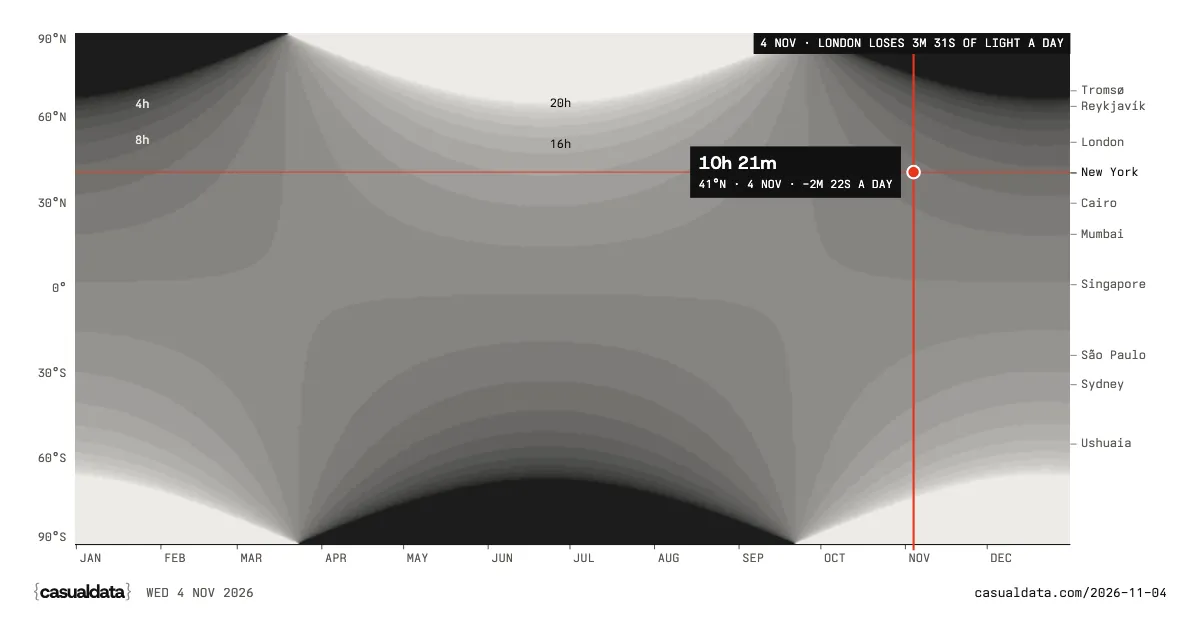
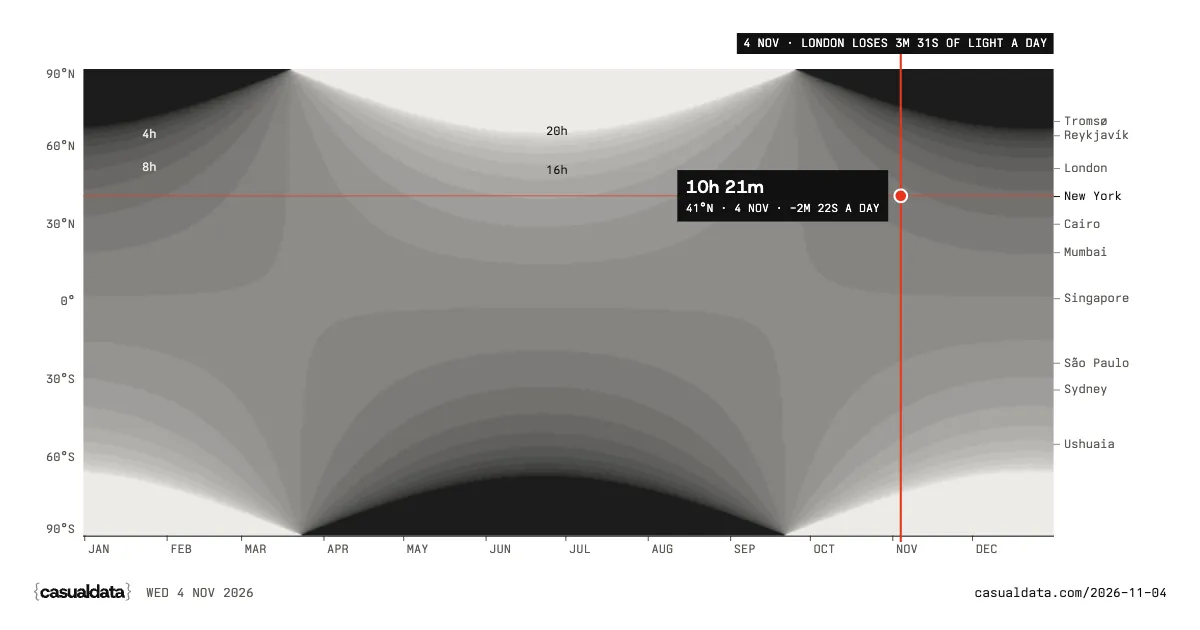
Give the day pages room: a wider margin, air between head, chart and source
Space is grouped, not spread: tight inside the head (title and dek),
generous between head, chart and source line, and a wider page margin
(up to 72px). The generous intervals follow the screen height, so short
screens give up air before chart; phones keep a compact head. Inside the
charts, direction labels and scales get their own bands, row headings
sit clear of their rules, 4 Nov's note sits above the plot instead of on
it, 6 Nov's labels get a taller band, and 8 Nov's key and strip more
room. 7 Nov's state codes also keep clear of the row summaries. Cards
and thumbnails re-rendered with the new spacing.

Changed region(s): [[0.0308, 0.0302, 0.9558, 0.9048], [0.2775, 0.0302, 0.6167, 0.0603], [0.3083, 0.7841, 0.3392, 0.8143]]

diff --git a/kit/cd.css b/kit/cd.css
@@ -43,7 +43,7 @@
 	--red: #E8341C;     /* the one thing, tuned per ground: 4.3:1 on white. marks and large labels only */
 	--sans: "Host Grotesk", Arial, sans-serif;
 	--mono: "Ioskeley Mono", ui-monospace, "SF Mono", Menlo, monospace;
-	--gut: clamp(16px, 2.4vw, 36px);
+	--gut: clamp(20px, 4.4vw, 72px);   /* the page margin: generous, so titles and charts never run to the edge */
 	color-scheme: light;
 }
 :root[data-theme="dark"] {
@@ -111,31 +111,36 @@ body.cd-day {
 
 /* The head is two things: the title, and one or two sentences that say how to
    read the chart. The reading itself lives in the chart (CD.label). */
+/* Spacing rhythm on a day page: tight inside a group (title and dek), generous between groups (bar to
+   head, head to chart, chart to source). The generous intervals follow the screen height, so a short
+   screen gives up air before it gives up chart. */
 .cd-head {
-	display: grid; grid-template-columns: minmax(0, 1.6fr) minmax(0, 1fr); gap: 10px 48px; align-items: end;
-	padding: clamp(16px, 3vh, 36px) var(--gut) clamp(14px, 2.4vh, 26px);
+	display: grid; grid-template-columns: minmax(0, 1.6fr) minmax(0, 1fr); gap: 12px clamp(32px, 6vw, 112px); align-items: end;
+	padding: clamp(22px, 5.5vh, 64px) var(--gut) clamp(26px, 6vh, 64px);
 }
 .cd-title {
 	/* light on purpose: 800 belongs to the wordmark alone */
 	margin: 0; font-weight: 400; letter-spacing: -.025em; line-height: 1;
-	font-size: clamp(28px, min(4.4vw, 6.6vh), 72px);
+	font-size: clamp(28px, min(4vw, 6.2vh), 64px); line-height: 1.02;
 	max-width: 18ch; text-wrap: balance;
 }
-.cd-dek { margin: 0; max-width: 44ch; justify-self: end; color: var(--ink-2); font-size: clamp(14px, 1.2vw, 16px); line-height: 1.45; text-wrap: pretty; }
+.cd-dek { margin: 0; max-width: 42ch; justify-self: end; color: var(--ink-2); font-size: clamp(14px, 1.15vw, 16.5px); line-height: 1.5; text-wrap: pretty; }
 
 .cd-stage { position: relative; min-height: 0; margin: 0 var(--gut); }
 .cd-stage canvas { position: absolute; inset: 0; width: 100%; height: 100%; display: block; touch-action: none; cursor: crosshair; }
 
 .cd-foot {
 	display: flex; justify-content: space-between; gap: 16px; flex-wrap: wrap;
-	padding: 10px var(--gut) 14px;
+	padding: clamp(16px, 3.4vh, 34px) var(--gut) clamp(14px, 2.4vh, 22px);
 	/* sources are sentences, so they keep their own case; capitals stay for short labels */
 	text-transform: none; letter-spacing: 0; font-size: 12.5px; line-height: 1.45;
 }
 .cd-foot a { text-decoration-color: var(--ink-3); text-underline-offset: 3px; }
 
 @media (max-width: 720px) {
-	.cd-head { grid-template-columns: 1fr; }
+	/* phones: height is the scarce thing, so the head keeps its air small and gives it to the chart */
+	.cd-head { grid-template-columns: 1fr; padding-block: 18px 20px; }
+	.cd-foot { padding-block: 12px; }
 	.cd-foot .hint { display: none; }
 	.cd-dek { justify-self: start; font-size: 14px; }
 	.cd-bar { gap: 12px; }
@@ -211,9 +216,9 @@ body.cd-home { min-height: 100dvh; display: grid; grid-template-rows: auto 1fr a
 	display: block; width: 100%; height: auto; aspect-ratio: 1200 / 548; object-fit: cover; object-position: 50% 0;
 	background: var(--rule); outline: 1px solid var(--rule); outline-offset: -1px; margin-bottom: 4px;
 }
-.tile .t { font-size: 18px; font-weight: 500; letter-spacing: -.012em; line-height: 1.28; text-wrap: balance; }
+.tile .t { font-size: 18px; font-weight: 500; letter-spacing: -.012em; line-height: 1.3; text-wrap: balance; }
 .tile .dek { color: var(--ink-2); font-size: 16px; line-height: 1.45; max-width: 44ch; }
-.tile.lead { grid-column: 1 / -1; padding-bottom: clamp(8px, 1.5vw, 20px); border-bottom: 1px solid var(--rule); }
+.tile.lead { grid-column: 1 / -1; padding-bottom: clamp(24px, 3vw, 44px); border-bottom: 1px solid var(--rule); }
 .tile.lead a { grid-template-columns: minmax(0, 2fr) minmax(0, 1fr); column-gap: clamp(20px, 3vw, 48px); align-items: start; }
 .tile.lead img { grid-row: 1 / span 3; margin-bottom: 0; }
 .tile.lead .cd-meta { margin-top: 2px; }

diff --git a/2026-11-07/viz.js b/2026-11-07/viz.js
@@ -48,7 +48,7 @@
 
 	function draw(ctx, x, y, w, h, s) {
 		const narrow = w < 560 * s;
-		const T = 30 * s, B = 26 * s, padX = 6 * s;
+		const T = 48 * s, B = 36 * s, padX = 6 * s;   // room for the direction labels above and the scale below
 		const x0 = x + padX, pw = w - 2 * padX, y0 = y + T, ph = h - T - B;
 		const X = v => x0 + (LIB - v) / (LIB + CON) * pw;          // +gap (liberal) to the left
 		const rh = ph / GROUPS.length;
@@ -65,8 +65,8 @@
 		}
 		ctx.fillStyle = C.ink2; ctx.textAlign = "center";
 		ctx.fillText(narrow ? "SAME" : "SAME AS FOR PRESIDENT", zx, y0 + ph + 18 * s);
-		ctx.textAlign = "right"; ctx.fillText(narrow ? "← MORE LIBERAL" : "← MORE LIBERAL THAN THE STATE VOTED IN 2024", zx - 10 * s, y0 - 14 * s);
-		ctx.textAlign = "left"; ctx.fillText(narrow ? "CONSERVATIVE →" : "MORE CONSERVATIVE →", zx + 10 * s, y0 - 14 * s);
+		ctx.textAlign = "right"; ctx.fillText(narrow ? "← MORE LIBERAL" : "← MORE LIBERAL THAN THE STATE VOTED IN 2024", zx - 10 * s, y0 - 24 * s);
+		ctx.textAlign = "left"; ctx.fillText(narrow ? "CONSERVATIVE →" : "MORE CONSERVATIVE →", zx + 10 * s, y0 - 24 * s);
 
 		// the zero line, the one reference; headings and dots are drawn over it
 		ctx.fillStyle = C.ink; ctx.fillRect(zx - 0.75 * s, y0 - 6 * s, 1.5 * s, ph + 12 * s);
@@ -85,7 +85,7 @@
 			// heading: the issue, and how its measures leaned (beside it, or under it on phones)
 			ctx.textBaseline = "top"; ctx.textAlign = "left"; ctx.fillStyle = C.ink;
 			ctx.font = `400 ${head}px ${C.sans}`;
-			const hy = ry + 8 * s;
+			const hy = ry + 14 * s;                                // a row heading sits clear of the rule above it
 			backed(g.name, x0, hy, head);
 			const nameW = ctx.measureText(g.name).width;
 			ctx.font = `400 ${11.5 * s}px ${C.mono}`; ctx.fillStyle = k === HERO ? C.ink : C.ink2;
@@ -95,7 +95,7 @@
 			else { backed(g.sum, x0, hy + head + 4 * s, 11.5 * s); top += 4 * s + 11.5 * s; }
 
 			// a beeswarm along the axis: each dot takes the nearest free slot to the row's centre line
-			const band0 = top + 6 * s, band1 = ry + rh - 6 * s, cy = (band0 + band1) / 2, half = Math.max(r, (band1 - band0) / 2 - r * 0.5);
+			const band0 = top + 10 * s, band1 = ry + rh - 10 * s, cy = (band0 + band1) / 2, half = Math.max(r, (band1 - band0) / 2 - r * 0.5);
 			const mine = pts.map((p, i) => i).filter(i => pts[i].g === k).sort((a, b) => pts[b].gap - pts[a].gap);
 			const here = [];
 			for (const i of mine) {
@@ -124,6 +124,7 @@
 			// a code must sit clear of every other dot, or it could be read as that dot's
 			const th = 12 * s, gap = r + 5 * s;
 			const taken = placed.filter(Boolean).map(q => ({ x: q.x - gap, y: q.y - r * 0.8, w: 2 * gap, h: 1.6 * r }));
+			taken.push(...texts);                                   // and clear of the row headings and their summaries
 			const free = b => b.x >= x0 && b.x + b.w <= x0 + pw && !taken.some(t => b.x < t.x + t.w && t.x < b.x + b.w && b.y < t.y + t.h && t.y < b.y + b.h);
 			// per row, the two most extreme measures on each side, if they are far from the line
 			const ends = [];

diff --git a/2026-11-04/viz.js b/2026-11-04/viz.js
@@ -88,8 +88,10 @@
 
 	// ---------- drawing (shared by screen and PNG) ----------
 	function layout(x, y, w, h, s, compact) {
-		const L = 40 * s, R = compact ? 8 * s : 92 * s, B = 26 * s;
-		return { x0: x + L, y0: y, pw: w - L - R, ph: h - B, s, compact };
+		// room around the plot: latitudes at the left, cities at the right, months below, and above it
+		// a band for the day's note, which sits over the plot rather than on it
+		const L = 48 * s, R = compact ? 8 * s : 108 * s, B = 34 * s, T = compact ? 0 : 34 * s;
+		return { x0: x + L, y0: y + T, pw: w - L - R, ph: h - B - T, s, compact };
 	}
 	function draw(ctx, x, y, w, h, s, compact) {
 		const g = layout(x, y, w, h, s, compact);
@@ -136,14 +138,15 @@
 
 		// the day it was published (4 Nov): the one red line
 		const xp = X(PUB);
-		ctx.fillStyle = C.red; ctx.fillRect(xp - 1 * s, g.y0, 2 * s, g.ph + 6 * s);
+		const ty = g.compact ? g.y0 : g.y0 - 34 * s;            // the note's top: above the plot, joined to it by the red line
+		ctx.fillStyle = C.red; ctx.fillRect(xp - 1 * s, ty, 2 * s, g.ph + 6 * s + (g.y0 - ty));
 		ctx.font = `400 ${11.5 * s}px ${C.mono}`; ctx.textBaseline = "middle";
 		// the tag carries the day's one fact, so the image says something without the title
 		const tag = g.compact ? "4 NOV" : `4 NOV · LONDON LOSES ${fmtDelta(PUB, LONDON).replace(/^−/, "").replace(" a day", "").toUpperCase()} OF LIGHT A DAY`;
 		const tw = ctx.measureText(tag).width + 12 * s, th = 20 * s;
 		const tx = Math.min(xp - tw / 2, g.x0 + g.pw - tw);
-		ctx.fillStyle = C.ink; ctx.fillRect(tx, g.y0, tw, th);
-		ctx.fillStyle = C.paper; ctx.fillText(tag, tx + 6 * s, g.y0 + th / 2 + 0.5 * s);
+		ctx.fillStyle = C.ink; ctx.fillRect(tx, ty, tw, th);
+		ctx.fillStyle = C.paper; ctx.fillText(tag, tx + 6 * s, ty + th / 2 + 0.5 * s);
 
 		// selection: thin crosshair + red dot
 		const sx = X(st.d), sy = Y(st.lat);

diff --git a/2026-11-05/viz.js b/2026-11-05/viz.js
@@ -32,7 +32,7 @@
 
 	// ---------- drawing, shared by the screen and the PNG ----------
 	function draw(ctx, x, y, w, h, s, narrow) {
-		const T = 30 * s, B = 28 * s, x0 = x, pw = w, y0 = y + T, ph = h - T - B;
+		const T = 46 * s, B = 38 * s, x0 = x, pw = w, y0 = y + T, ph = h - T - B;   // room for the direction labels above and the scale below
 		const X = v => x0 + (v - XMIN) / (XMAX - XMIN) * pw;
 		const rh = ph / rows.length, Y = i => y0 + (i + 0.5) * rh;
 		const thick = Math.max(1.6 * s, Math.min(6 * s, rh * 0.34)), head = Math.max(4 * s, Math.min(11 * s, rh * 0.62));
@@ -48,13 +48,13 @@
 		ctx.fillStyle = C.ink; ctx.fillRect(zx - 0.75 * s, y0 - 8 * s, 1.5 * s, ph + 16 * s);
 		ctx.textAlign = "center"; ctx.fillStyle = C.ink2;
 		ctx.fillText(narrow ? "2024" : "2024 VOTE FOR PRESIDENT", zx, y0 + ph + 20 * s);
-		ctx.textAlign = "right"; ctx.fillText("← TOWARD THE DEMOCRATS", zx - 10 * s, y0 - 14 * s);
+		ctx.textAlign = "right"; ctx.fillText("← TOWARD THE DEMOCRATS", zx - 10 * s, y0 - 22 * s);
 		// the Republican side is narrow: shorten the label until it fits, and pin it to the edge if it still doesn't
 		ctx.textAlign = "left";
 		let rLabel = narrow ? "TOWARD R →" : "TOWARD THE REPUBLICANS →";
 		if (zx + 10 * s + ctx.measureText(rLabel).width > x0 + pw) rLabel = "R →";
-		if (zx + 10 * s + ctx.measureText(rLabel).width > x0 + pw) { ctx.textAlign = "right"; ctx.fillText(rLabel, x0 + pw, y0 - 14 * s); }
-		else ctx.fillText(rLabel, zx + 10 * s, y0 - 14 * s);
+		if (zx + 10 * s + ctx.measureText(rLabel).width > x0 + pw) { ctx.textAlign = "right"; ctx.fillText(rLabel, x0 + pw, y0 - 22 * s); }
+		else ctx.fillText(rLabel, zx + 10 * s, y0 - 22 * s);
 
 		// arrows
 		rows.forEach((d, i) => {

diff --git a/2026-11-06/viz.js b/2026-11-06/viz.js
@@ -58,7 +58,7 @@
 
 	// ---------- drawing, shared by the screen and the PNG ----------
 	function draw(ctx, x, y, w, h, s) {
-		const labelH = 64 * s, gapCols = 1.4;
+		const labelH = 84 * s, gapCols = 1.6;   // a full band for the counts and names under the groups
 		// pick the number of rows that makes people largest while every group fits
 		let best = null;
 		for (let R = 1; R <= 30; R++) {
@@ -88,7 +88,7 @@
 			boxes.push({ x: cx, w: gw, gi });
 			if (walk === 1) {
 				ctx.textAlign = "left"; ctx.textBaseline = "alphabetic";
-				const ly = oy + R * cell + 22 * s;
+				const ly = oy + R * cell + 30 * s;
 				ctx.font = `400 ${Math.min(17 * s, Math.max(11 * s, gw / 7))}px ${C.sans}`; ctx.fillStyle = C.ink;
 				ctx.fillText(String(g.n), cx + cell * 0.1, ly);
 				ctx.font = `400 ${11.5 * s}px ${C.mono}`; ctx.fillStyle = on ? C.ink : C.ink2;
@@ -104,7 +104,7 @@
 			ctx.font = `400 ${11.5 * s}px ${C.mono}`; ctx.fillStyle = C.ink; ctx.textAlign = "left"; ctx.textBaseline = "alphabetic";
 			const note = split ? `${margin} IN RED: THE HOUSE MARGIN` : `${margin} IN RED: MORE THAN VOTED IN 2022`;
 			const nx = Math.min(b.x + cell * 0.1, x + w - ctx.measureText(note).width);   // stay inside the picture
-			ctx.fillText(note, nx, oy + R * cell + 52 * s);
+			ctx.fillText(note, nx, oy + R * cell + 64 * s);
 		}
 
 		if (sel >= 0 && walk === 1) {

diff --git a/2026-11-08/viz.js b/2026-11-08/viz.js
@@ -32,7 +32,7 @@
 
 	// ui: true on screen, where narrow screens get ‹ › buttons beside the strip; false for the image
 	function draw(ctx, x, y, w, h, s, ui) {
-		const stripH = 54 * s, gap = 18 * s, chipRoom = 92 * s;
+		const stripH = 54 * s, gap = 30 * s, chipRoom = 96 * s;
 		const r = races[cur], n = r.margin, MAX = 34 * s, flip = flipOf(n);
 		// the key, written into the drawing so the image explains itself: what a figure is, what red is
 		const keyW = w, twoLines = keyW < 560 * s, keyH = (twoLines ? 40 : 22) * s;
@@ -50,7 +50,7 @@
 		if (twoLines) key(x, y + 25 * s, C.red, red);
 		else key(k1 + 28 * s, y + 7 * s, C.red, red);
 		// the field leaves room under the crowd for the reading, so the chip never covers a vote
-		const fx = x, fy = y + keyH + 10 * s, fw = w, fh = h - stripH - gap - chipRoom - keyH - 10 * s;
+		const fx = x, fy = y + keyH + 22 * s, fw = w, fh = h - stripH - gap - chipRoom - keyH - 22 * s;
 		// a grid that fills the field: choose a cell so n marks fit; a small margin stays a small crowd
 		const cell = Math.min(MAX, Math.sqrt(fw * fh / n) * 0.98);
 		// keep the crowd compact: roughly the field's shape, never wider than it

diff --git a/DESIGN.md b/DESIGN.md
@@ -197,6 +197,8 @@ Home is a grid of every day, newest first: three columns above 960px with the ne
 
 Breakpoints: 960px and 600px for the home grid, 720px for the phone frame (bottom bar, icon-only buttons, 44px targets), 400px for swapping the wordmark for the `{•}` symbol.
 
+**The Room to Read Rule.** Space is grouped, not spread evenly: tight inside a group (title and dek 12px apart), generous between groups. The page margin is `clamp(20px, 4.4vw, 72px)`; the head takes `clamp(22px, 5.5vh, 64px)` above and `clamp(26px, 6vh, 64px)` below; the source line sits `clamp(16px, 3.4vh, 34px)` under the chart. The generous intervals follow the screen height, so a short screen gives up air before chart; phones keep the head at 18/20px. Inside a chart the same holds: direction labels sit in their own band above the plot (about 46px), the scale in a band below (about 36px), a row heading 14px under its rule, annotations above the plot rather than on it.
+
 **The Floor Not Squeeze Rule.** A chart is never shorter than `--stage-min`. When the screen cannot fit it, the page scrolls and the phone bottom bar stays sticky in thumb reach.
 
 ## Elevation & Depth
